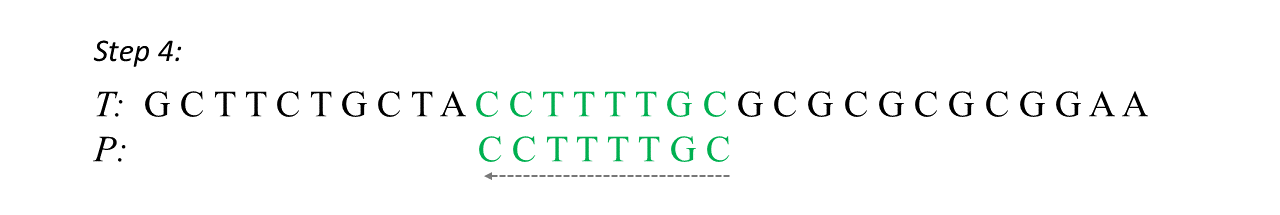
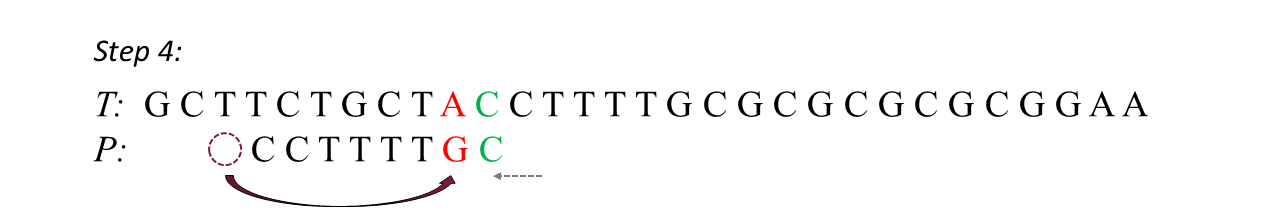
Simulação do Bad-Character Feita

Changed region(s): [[0.1562, 0.614, 0.5625, 0.7814], [0.3438, 0.4186, 0.5625, 0.5581], [0.1562, 0.8093, 0.5625, 0.9767]]

diff --git a/src/index.md b/src/index.md
@@ -79,9 +79,14 @@ A eficiência do algoritmo Boyer-Moore se destaca pelo uso de uma heurística pa
 
 2. *The good-suffix rule*;
 
-Primeiramente vamos entender como funciona a heurística do *bad-character rule*. Considerando um texto $T$ e um padrão $P$, a heurística do *bad-character rule* consiste em, ao encontrar um caractere que não faz parte do padrão, pular o máximo de caracteres possível para a direita, de forma que o caractere que não faz parte do padrão fique alinhado com o último caractere do padrão.
+Primeiramente vamos entender como funciona a heurística do *bad-character rule*. Considerando um texto $T$ e um padrão $P$, a heurística do *bad-character rule* consiste em, sempre que há um "mismatch" entre $P$ e $T$ (ou seja, quando um caractere do padrão não corresponde ao caractere do texto), o padrão é deslocado para a direita de forma que o caractere do texto que não corresponde ao caractere do padrão seja alinhado com a próxima ocorrência desse caractere no padrão. Caso não haja nenhuma ocorrência, todo o padrão $P$ é shiftado para depois do caractere do texto que não corresponde a nenhum caractere do padrão.
 
 Segue uma curta simulação para ficar mais claro o funcionamento do **bad-character rule**:
+
+!!! Aviso
+É muito importante enteder que a regra do *bad-character* só funciona efetivamente, pois o padrão é comparado com o texto da {red}(direita para a esquerda) (**como indicado pela seta pontilhada na simulação**), diferentemente do algoritmo de busca em texto convencional apresentado no começo do handout.
+!!!
+
 
 :bad_character
 
